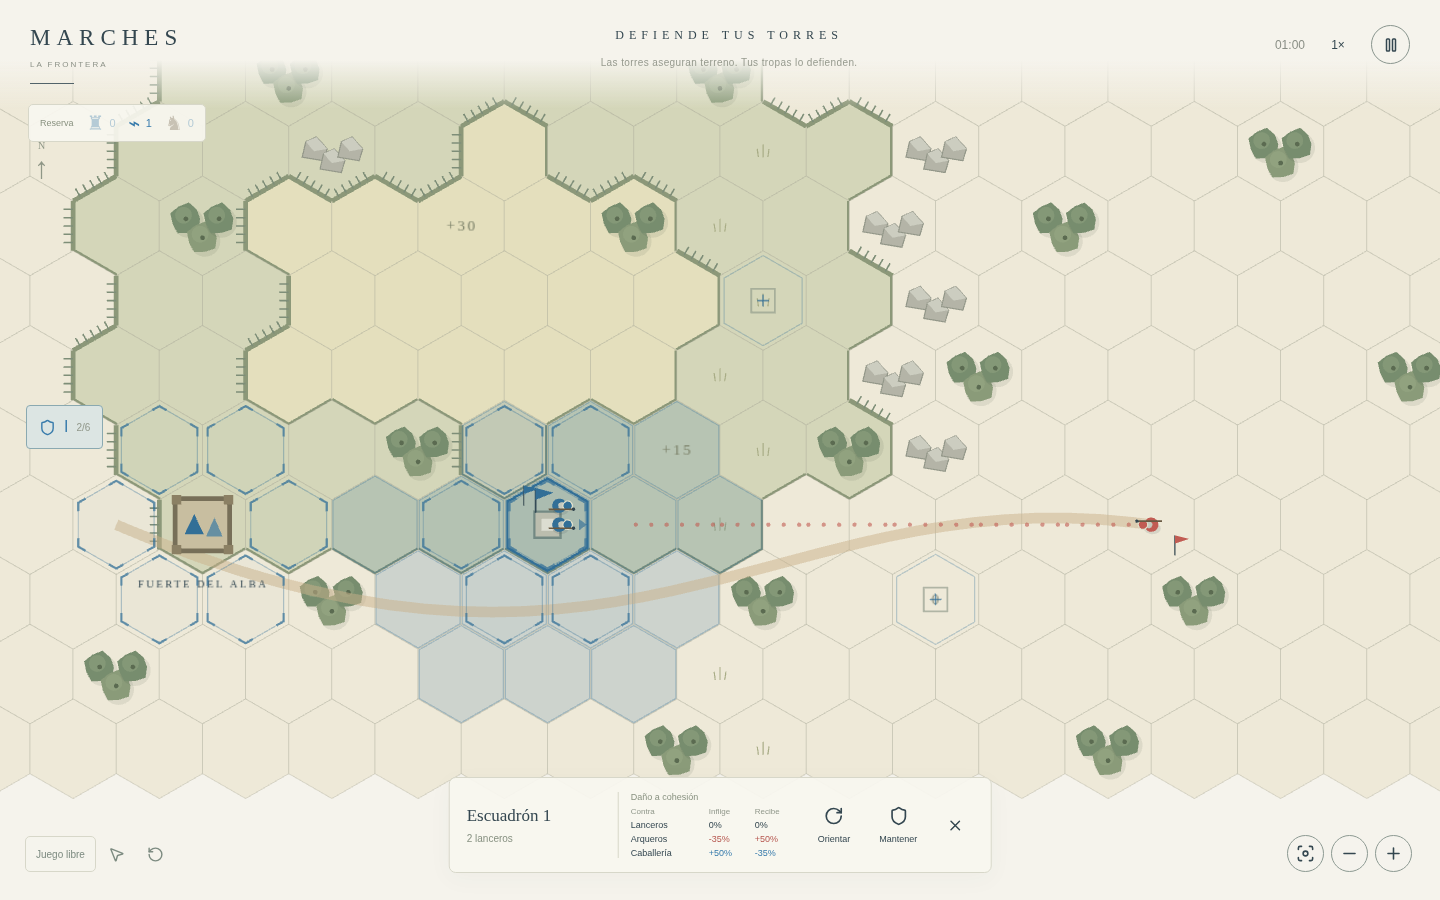
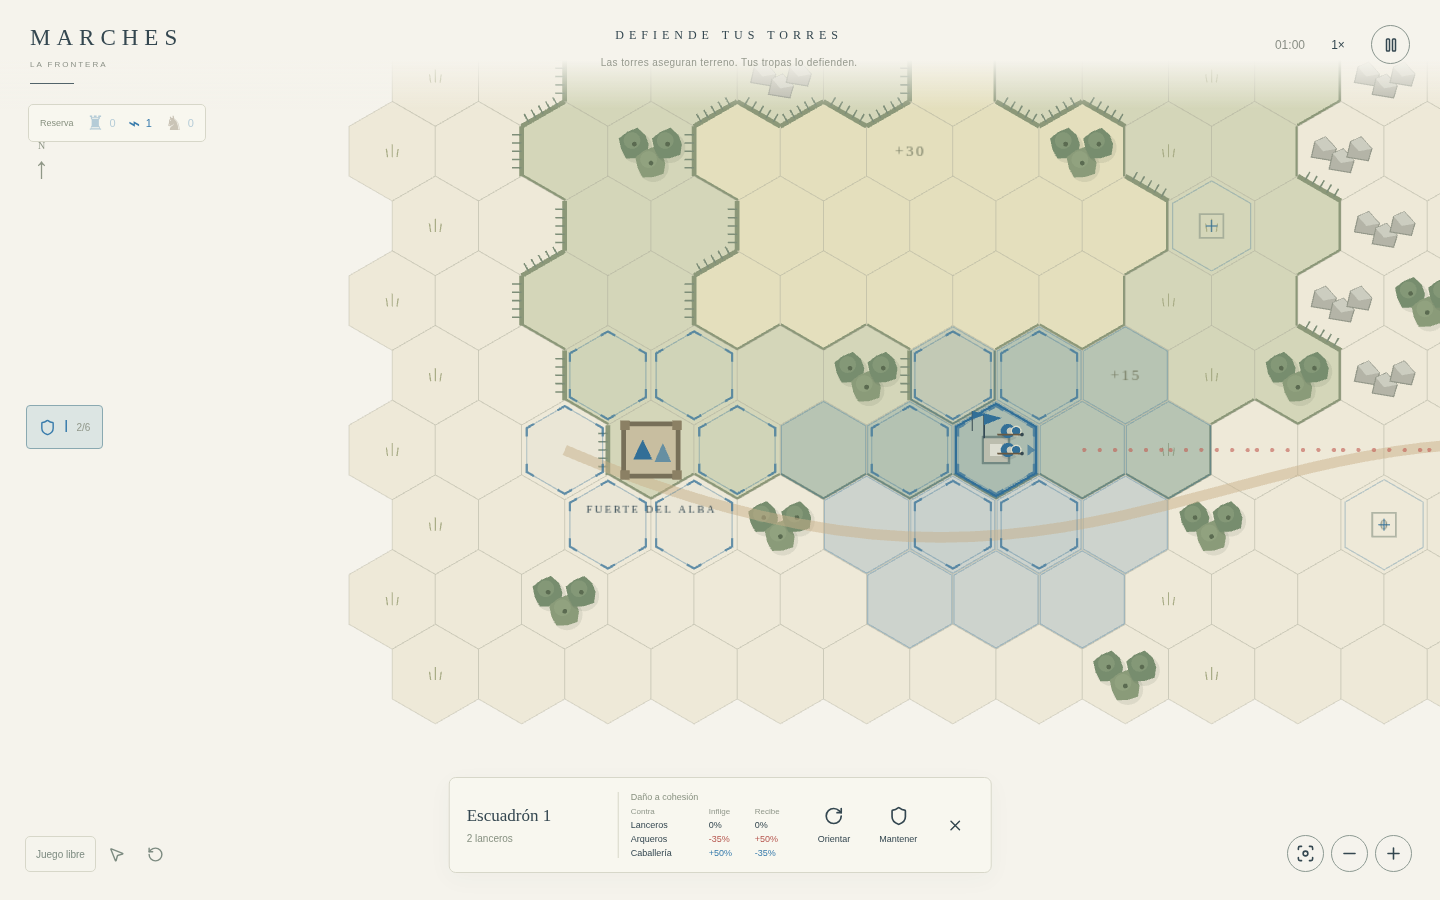
Focus initial camera on fort and replace recruitment form with unit tokens

diff --git a/src/tactics/Board.tsx b/src/tactics/Board.tsx
@@ -421,9 +421,7 @@ export default function Board() {
               lastW / 2 -
               DX *
                 (b.outpost
-                  ? lastW < 700
-                    ? 6.5
-                    : 9
+                  ? 3.8
                   : b.lesson?.index === 0
                     ? 5
                     : b.lesson && (b.lesson.index === 2 || b.lesson.index === 3)
@@ -437,7 +435,7 @@ export default function Board() {
               lastH / 2 -
               R *
                 (b.outpost
-                  ? 10.5
+                  ? 12
                   : b.lesson?.index === 0
                     ? 12
                     : b.lesson && (b.lesson.index === 2 || b.lesson.index === 3)
@@ -633,8 +631,8 @@ export default function Board() {
           const c = b.cells[s.deployCell],
             x = c.x * world.scale.x + pan.x,
             y = c.y * world.scale.y + pan.y;
-          menuRef.current.style.left = `${Math.max(8, Math.min(app.screen.width - 195, x + 24 * world.scale.x))}px`;
-          menuRef.current.style.top = `${Math.max(80, Math.min(app.screen.height - 210, y - 23 * world.scale.y))}px`;
+          menuRef.current.style.left = `${Math.max(8, Math.min(app.screen.width - 230, x + 24 * world.scale.x))}px`;
+          menuRef.current.style.top = `${Math.max(80, Math.min(app.screen.height - 155, y - 23 * world.scale.y))}px`;
           menuRef.current.style.visibility =
             x < 0 || x > app.screen.width || y < 0 || y > app.screen.height
               ? "hidden"
@@ -1150,11 +1148,23 @@ export default function Board() {
           aria-label="Añadir tropas en esta celda"
         >
           <div className="map-recruit-heading">
-            <span>
-              {game.battle.squads.find((u) => u.cell === game.deployCell)
-                ?.members.length ?? 0}
-              /6 · Despliegue
-            </span>
+            <div
+              className="squad-capacity"
+              aria-label={`Capacidad ${game.battle.squads.find((u) => u.cell === game.deployCell)?.members.length ?? 0} de 6`}
+            >
+              {Array.from({ length: 6 }, (_, i) => (
+                <i
+                  key={i}
+                  className={
+                    i <
+                    (game.battle.squads.find((u) => u.cell === game.deployCell)
+                      ?.members.length ?? 0)
+                      ? "filled"
+                      : ""
+                  }
+                />
+              ))}
+            </div>
             <button
               aria-label="Cerrar tropas disponibles"
               onClick={() => useTactics.setState({ deployCell: null })}
@@ -1162,23 +1172,26 @@ export default function Board() {
               ×
             </button>
           </div>
-          {troopTypes.map((type) => (
-            <button
-              key={type}
-              aria-label={`Añadir ${troopNames[type]}`}
-              disabled={
-                game.battle.outpost!.reserve[type] === 0 ||
-                !!deploymentError(game.battle, game.deployCell!)
-              }
-              onClick={() => game.placeTroop(type)}
-            >
-              <i className={`reserve-icon ${type}`}>
-                {type === "shield" ? "♜" : type === "bow" ? "⌁" : "♞"}
-              </i>
-              <span>{troopNames[type]}</span>
-              <b>{game.battle.outpost!.reserve[type]}</b>
-            </button>
-          ))}
+          <div className="recruit-tokens">
+            {troopTypes.map((type) => (
+              <button
+                key={type}
+                aria-label={`Añadir ${troopNames[type]}`}
+                title={troopNames[type]}
+                disabled={
+                  game.battle.outpost!.reserve[type] === 0 ||
+                  !!deploymentError(game.battle, game.deployCell!)
+                }
+                onClick={() => game.placeTroop(type)}
+              >
+                <i className={`reserve-icon ${type}`}>
+                  {type === "shield" ? "♜" : type === "bow" ? "⌁" : "♞"}
+                </i>
+                <span className="token-name">{troopNames[type]}</span>
+                <b>{game.battle.outpost!.reserve[type]}</b>
+              </button>
+            ))}
+          </div>
         </div>
       )}
     </>

diff --git a/src/tactics/tactics.css b/src/tactics/tactics.css
@@ -747,3 +747,75 @@ button:focus-visible {
     transition: none !important;
   }
 }
+
+/* A small muster tray, anchored to the selected hex. */
+.map-recruit:has(.map-recruit-heading) {
+  width: 218px;
+  padding: 7px;
+  border: 0;
+  background: #f5f3eceb;
+  border-radius: 32px 32px 22px 22px;
+  box-shadow: 0 5px 18px #34475018;
+}
+.map-recruit-heading {
+  padding: 0 6px 3px 13px;
+}
+.squad-capacity {
+  display: flex;
+  gap: 5px;
+}
+.squad-capacity i {
+  width: 8px;
+  height: 4px;
+  background: #34475025;
+  border-radius: 1px;
+}
+.squad-capacity i.filled {
+  background: #397cac;
+}
+.recruit-tokens {
+  display: flex;
+  gap: 7px;
+}
+.recruit-tokens button {
+  position: relative;
+  width: 64px;
+  height: 76px;
+  padding: 6px 1px;
+  display: flex;
+  flex-direction: column;
+  justify-content: center;
+  gap: 2px;
+  border-radius: 22px;
+  border: 1px solid #397cac45;
+  background: #397cac0c;
+}
+.recruit-tokens .reserve-icon {
+  font-size: 29px;
+  line-height: 32px;
+  font-style: normal;
+}
+.recruit-tokens .token-name {
+  font-size: 9px;
+}
+.recruit-tokens button b {
+  position: absolute;
+  right: 0;
+  top: -4px;
+  display: grid;
+  place-items: center;
+  min-width: 20px;
+  height: 20px;
+  border-radius: 50%;
+  background: #397cac;
+  color: #fff;
+  font-size: 11px;
+  border: 2px solid #f5f3ec;
+}
+.recruit-tokens button:not(:disabled):active {
+  transform: scale(0.94);
+}
+.recruit-tokens button:disabled {
+  border-color: transparent;
+  background: transparent;
+}
